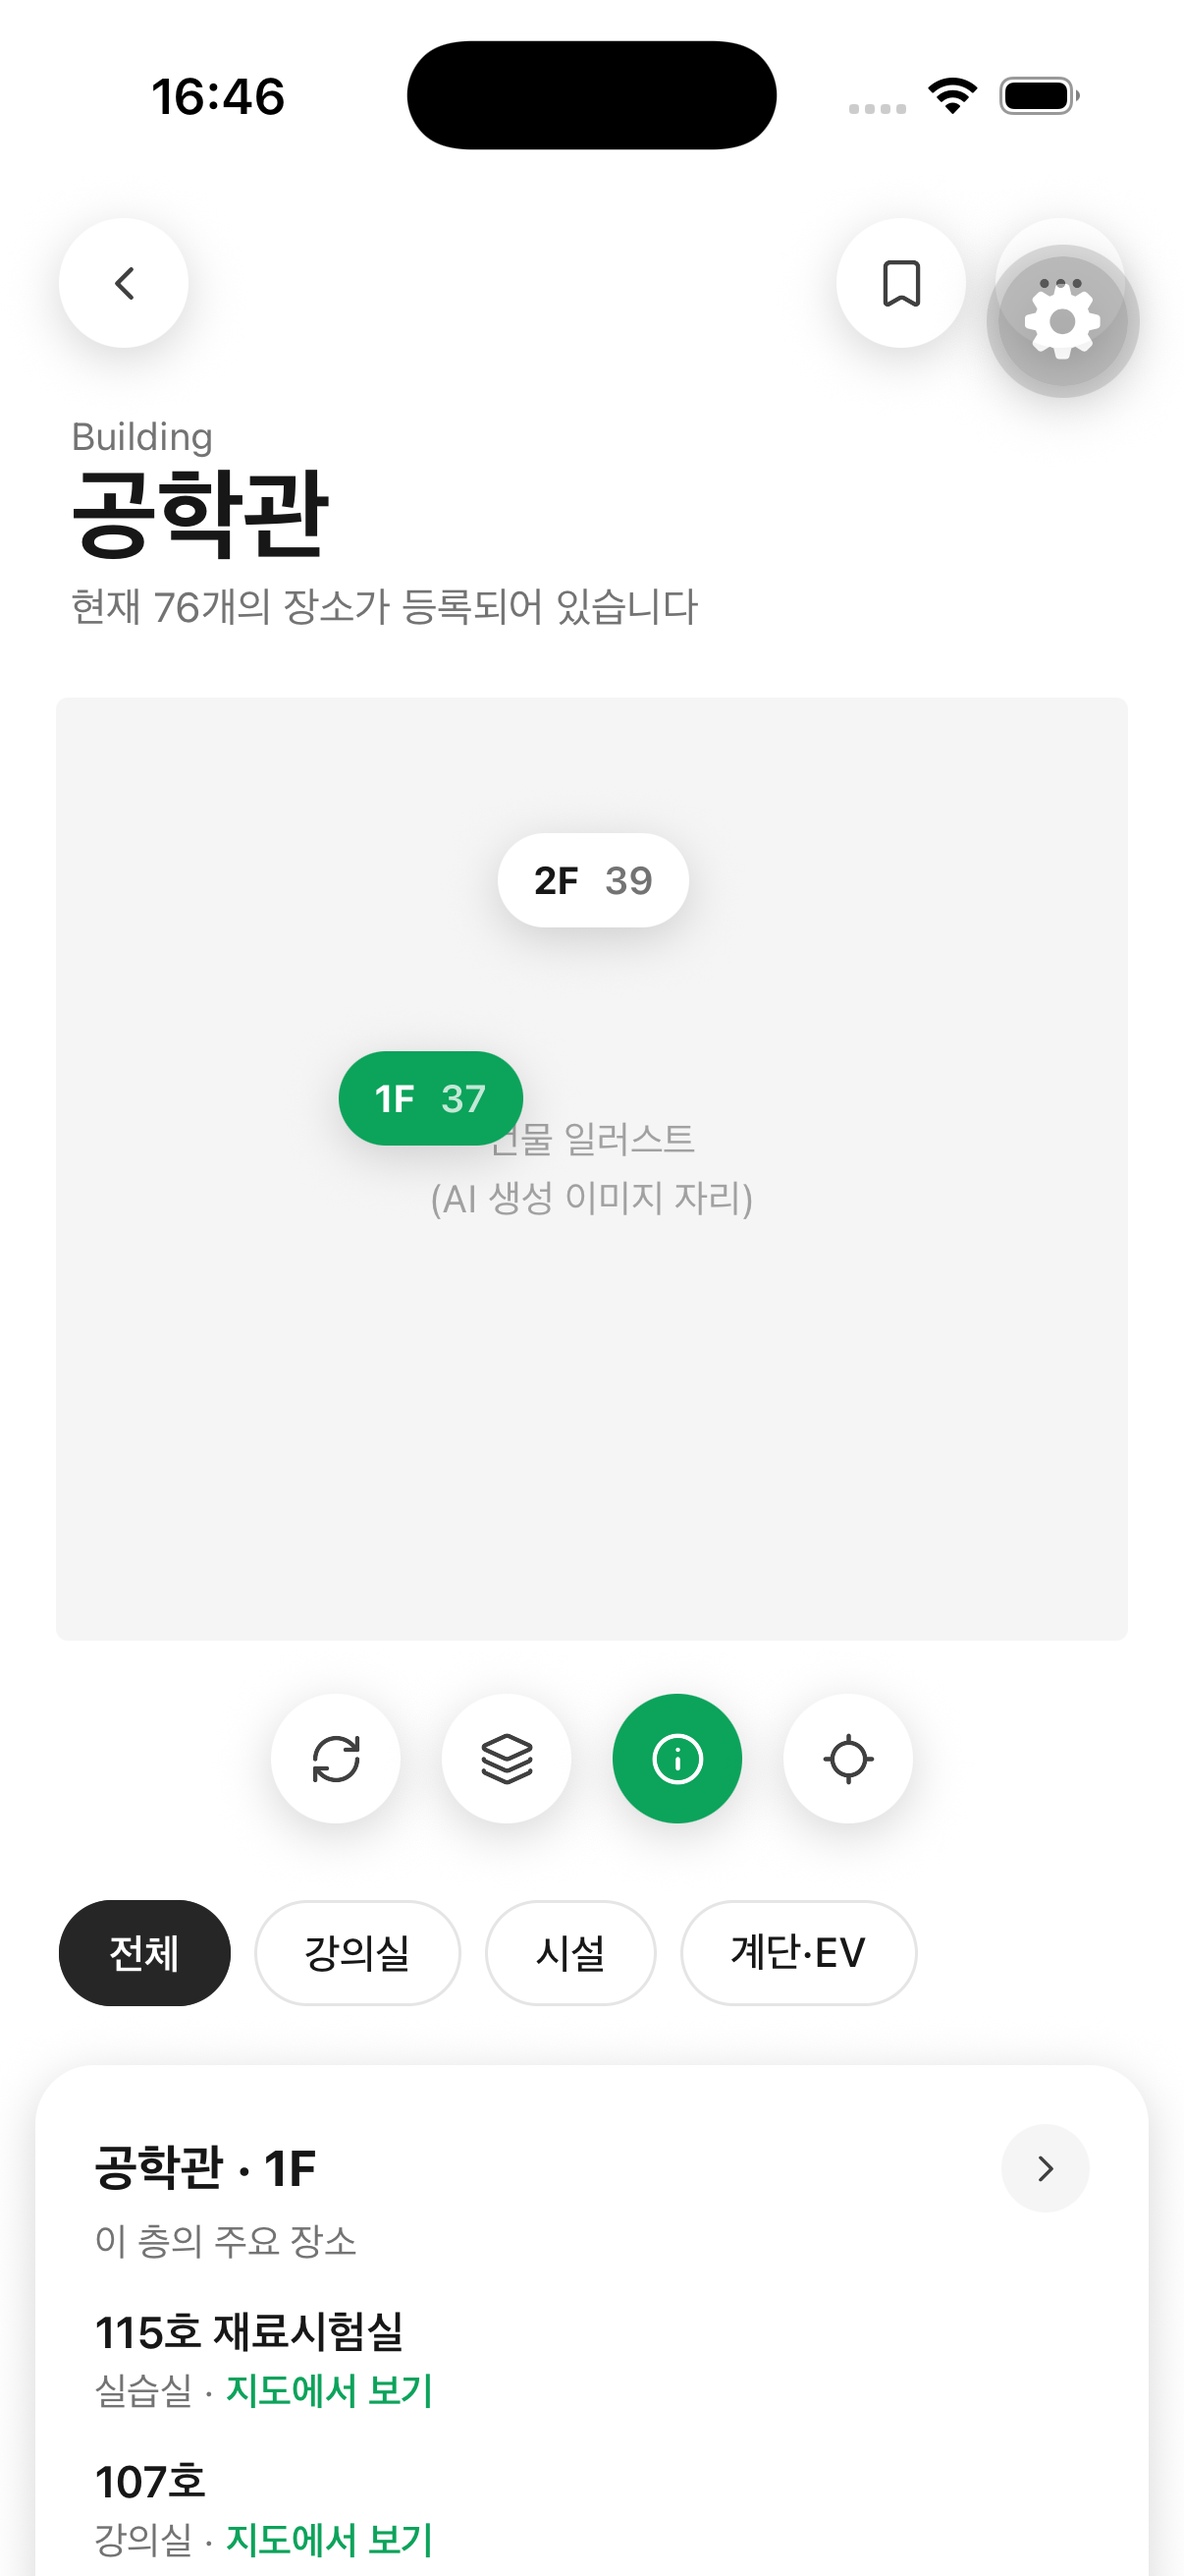
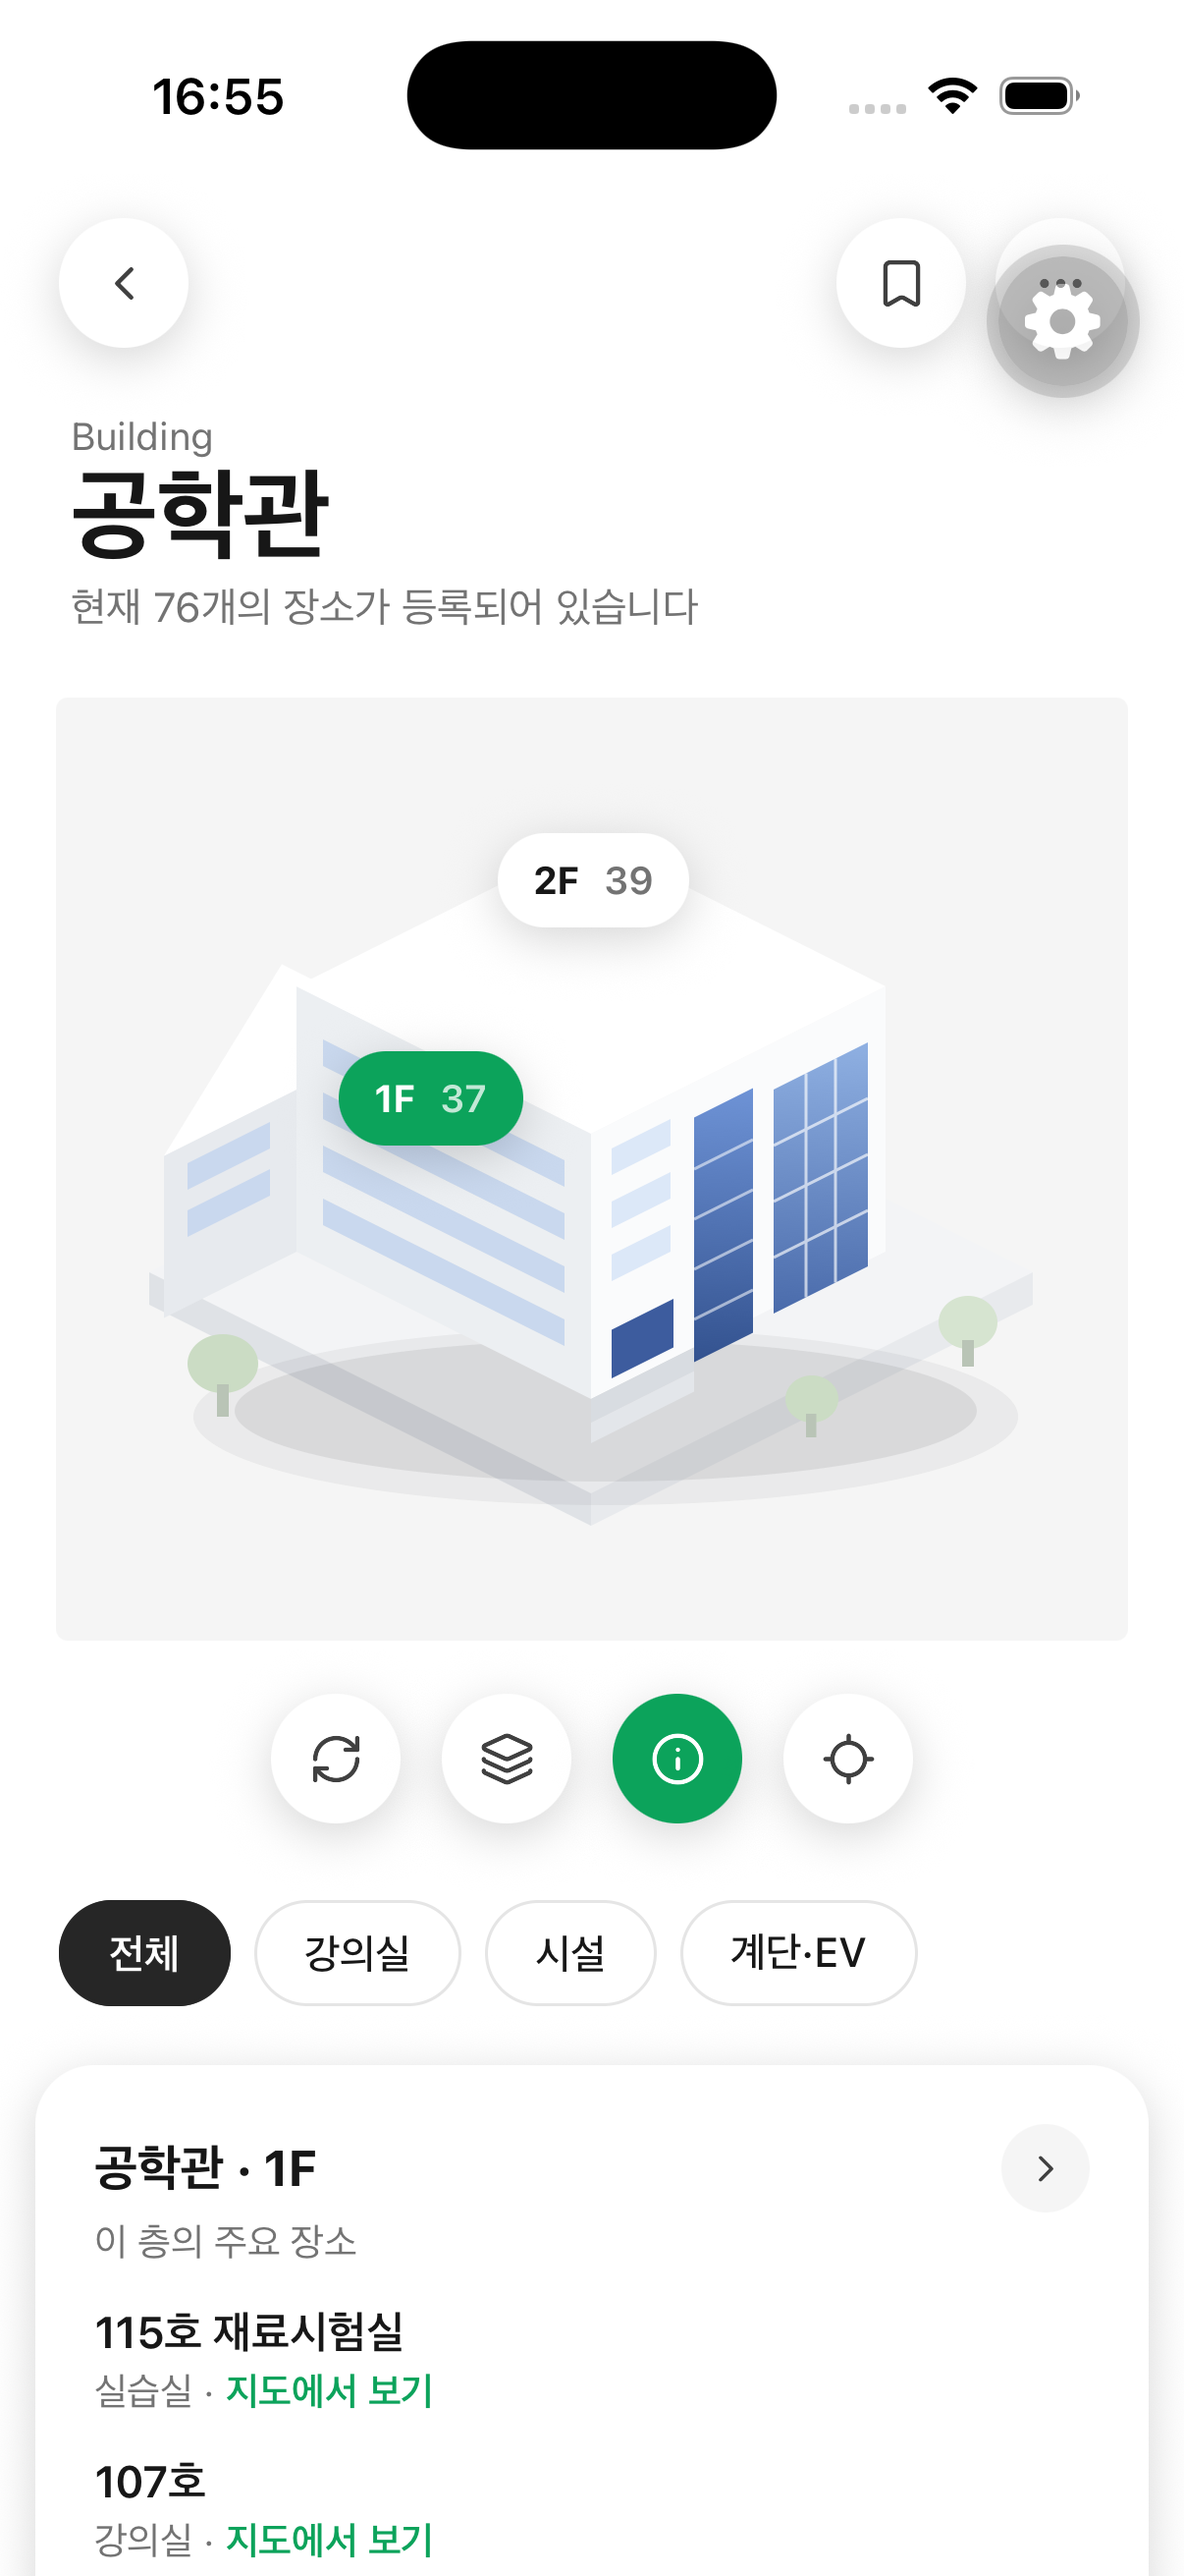
feat(building-art): 건물 일러스트 벡터 컴포넌트 (자리표시)
- IsoBuilding: 공학관 아이소메트릭 (미래관 실물 매싱 기반,
  중앙 통유리 스트립 + 우측 커튼월 + 입구 계단)
- ElevationBuilding: 정면 입면 (석재 패널 + 유리 타워 + 커튼월)
- react-native-svg로 네이티브·웹 동일 렌더, 건물 상세와 층 선택
  화면의 플레이스홀더 교체 (AI 생성 이미지 확정 시 Image로 대체)
- iOS 시뮬레이터 스크린샷 갱신

Changed region(s): [[0.1534, 0.4016, 0.859, 0.587], [0.1841, 0.0309, 0.2148, 0.0618]]

diff --git a/src/shared/components/building-art/IsoBuilding.tsx b/src/shared/components/building-art/IsoBuilding.tsx
@@ -1,0 +1,106 @@
+import Svg, { Defs, Ellipse, G, Line, LinearGradient, Polygon, Rect, Stop } from 'react-native-svg'
+
+// 공학관 아이소메트릭 일러스트 — 미래관 실물 매싱(중앙 통유리 스트립 + 우측 커튼월) 기반 자리표시 벡터.
+// AI 생성 이미지가 확정되면 이 컴포넌트를 Image로 교체한다.
+
+type IsoBuildingProps = {
+  width?: number
+  height?: number
+}
+
+export function IsoBuilding({ width = 355, height = 320 }: IsoBuildingProps) {
+  return (
+    <Svg width={width} height={height} viewBox="0 0 355 320">
+      <Defs>
+        <LinearGradient id="isoGlassV" x1="0%" y1="0%" x2="0%" y2="100%">
+          <Stop offset="0" stopColor="#6E93D6" />
+          <Stop offset="1" stopColor="#33528F" />
+        </LinearGradient>
+        <LinearGradient id="isoGlassGrid" x1="0%" y1="0%" x2="0%" y2="100%">
+          <Stop offset="0" stopColor="#8FB0E2" />
+          <Stop offset="1" stopColor="#4A6BAB" />
+        </LinearGradient>
+      </Defs>
+
+      {/* 플랫폼 */}
+      <Polygon points="177,120 327,195 177,270 27,195" fill="#F3F4F6" />
+      <Polygon points="27,195 177,270 177,281 27,206" fill="#DFE2E6" />
+      <Polygon points="327,195 177,270 177,281 327,206" fill="#E8EAED" />
+
+      {/* 건물 그림자 (블러 미지원 대비: 겹친 반투명 타원) */}
+      <Ellipse cx={182} cy={244} rx={140} ry={30} fill="#1B1D1F" opacity={0.05} />
+      <Ellipse cx={182} cy={242} rx={126} ry={24} fill="#1B1D1F" opacity={0.08} />
+
+      {/* 좌측 저층 윙 */}
+      <Polygon points="77,188 77,133 32,155.5 32,210.5" fill="#E7EAEE" />
+      <Polygon points="77,188 77,133 117,113 117,168" fill="#F6F8FA" />
+      <Polygon points="32,155.5 77,133 117,113 72,90.5" fill="#FFFFFF" />
+      <G fill="#C9D8EE">
+        <Polygon points="40,158 68,144 68,153 40,167" />
+        <Polygon points="40,174 68,160 68,169 40,183" />
+      </G>
+      <G fill="#DCE8F8">
+        <Polygon points="84,136 110,123 110,132 84,145" />
+        <Polygon points="84,152 110,139 110,148 84,161" />
+      </G>
+
+      {/* 본관 */}
+      <Polygon points="177,238 77,188 77,98 177,148" fill="#ECEFF2" />
+      <Polygon points="177,238 277,188 277,98 177,148" fill="#FAFBFC" />
+      <Polygon points="77,98 177,48 277,98 177,148" fill="#FFFFFF" />
+
+      {/* 좌측면 리본창 */}
+      <G fill="#C9D8EE">
+        <Polygon points="86,116 168,157 168,166 86,125" />
+        <Polygon points="86,134 168,175 168,184 86,143" />
+        <Polygon points="86,152 168,193 168,202 86,161" />
+        <Polygon points="86,170 168,211 168,220 86,179" />
+      </G>
+
+      {/* 중앙 통유리 스트립 */}
+      <Polygon points="212,142.5 232,132.5 232,215.5 212,225.5" fill="url(#isoGlassV)" />
+      <G stroke="#FFFFFF" strokeWidth={1} opacity={0.55}>
+        <Line x1={212} y1={160} x2={232} y2={150} />
+        <Line x1={212} y1={177} x2={232} y2={167} />
+        <Line x1={212} y1={194} x2={232} y2={184} />
+        <Line x1={212} y1={211} x2={232} y2={201} />
+      </G>
+
+      {/* 우측 커튼월 블록 */}
+      <Polygon points="239,133 271,117 271,193 239,209" fill="url(#isoGlassGrid)" />
+      <G stroke="#FFFFFF" strokeWidth={1} opacity={0.65}>
+        <Line x1={239} y1={152} x2={271} y2={136} />
+        <Line x1={239} y1={171} x2={271} y2={155} />
+        <Line x1={239} y1={190} x2={271} y2={174} />
+        <Line x1={250} y1={127.5} x2={250} y2={203.5} />
+        <Line x1={260} y1={122.5} x2={260} y2={198.5} />
+      </G>
+
+      {/* 정면 석재 패널 창 */}
+      <G fill="#DCE8F8">
+        <Polygon points="184,153 204,143 204,152 184,162" />
+        <Polygon points="184,171 204,161 204,170 184,180" />
+        <Polygon points="184,189 204,179 204,188 184,198" />
+      </G>
+
+      {/* 입구 계단과 캐노피 */}
+      <Polygon points="177,238 212,220.5 212,228.5 177,246" fill="#D8DCE1" />
+      <Polygon points="177,246 212,228.5 212,235.5 177,253" fill="#E3E6EA" />
+      <Polygon points="184,231 205,220.5 205,204 184,214.5" fill="#3D5C9E" />
+
+      {/* 나무 */}
+      <G>
+        <Ellipse cx={52} cy={226} rx={12} ry={10} fill="#CBDCC4" />
+        <Rect x={50} y={233} width={4} height={11} fill="#B9C4B6" />
+      </G>
+      <G>
+        <Ellipse cx={305} cy={212} rx={10} ry={9} fill="#D6E4D0" />
+        <Rect x={303} y={218} width={4} height={9} fill="#B9C4B6" />
+      </G>
+      <G>
+        <Ellipse cx={252} cy={238} rx={9} ry={8} fill="#CBDCC4" />
+        <Rect x={250} y={243} width={3.5} height={8} fill="#B9C4B6" />
+      </G>
+    </Svg>
+  )
+}

diff --git a/src/shared/components/building-art/ElevationBuilding.tsx b/src/shared/components/building-art/ElevationBuilding.tsx
@@ -1,0 +1,89 @@
+import Svg, { Defs, G, Line, LinearGradient, Rect, Stop } from 'react-native-svg'
+
+// 공학관 정면 입면 일러스트 — 실물 파사드(석재 패널 + 중앙 유리 타워 + 우측 커튼월) 기반 자리표시 벡터.
+// AI 생성 이미지가 확정되면 이 컴포넌트를 Image로 교체한다.
+
+type ElevationBuildingProps = {
+  width?: number
+  height?: number
+}
+
+export function ElevationBuilding({ width = 345, height = 356 }: ElevationBuildingProps) {
+  return (
+    <Svg width={width} height={height} viewBox="0 0 345 356">
+      <Defs>
+        <LinearGradient id="eleStripRN" x1="0%" y1="0%" x2="0%" y2="100%">
+          <Stop offset="0" stopColor="#5F87CF" />
+          <Stop offset="1" stopColor="#2E4C87" />
+        </LinearGradient>
+        <LinearGradient id="eleGridRN" x1="0%" y1="0%" x2="0%" y2="100%">
+          <Stop offset="0" stopColor="#9CBAE8" />
+          <Stop offset="1" stopColor="#5372B0" />
+        </LinearGradient>
+      </Defs>
+
+      {/* 좌측 저층 윙 */}
+      <Rect x={6} y={150} width={60} height={186} fill="#F0F2EF" stroke="#E3E6E2" />
+      <G fill="#C9D8EE">
+        <Rect x={14} y={164} width={44} height={14} rx={2} />
+        <Rect x={14} y={204} width={44} height={14} rx={2} />
+        <Rect x={14} y={244} width={44} height={14} rx={2} />
+        <Rect x={14} y={284} width={44} height={14} rx={2} />
+      </G>
+
+      {/* 본관 석재 파사드 */}
+      <Rect x={66} y={60} width={174} height={276} fill="#FAFAF8" stroke="#E6E6E1" />
+      <G stroke="#ECECE7" strokeWidth={1}>
+        <Line x1={66} y1={115} x2={240} y2={115} />
+        <Line x1={66} y1={170} x2={240} y2={170} />
+        <Line x1={66} y1={225} x2={240} y2={225} />
+        <Line x1={66} y1={280} x2={240} y2={280} />
+      </G>
+      <G fill="#A8C7F0">
+        <Rect x={80} y={78} width={30} height={20} rx={2} />
+        <Rect x={118} y={78} width={30} height={20} rx={2} />
+        <Rect x={80} y={133} width={30} height={20} rx={2} />
+        <Rect x={118} y={133} width={30} height={20} rx={2} />
+        <Rect x={80} y={188} width={30} height={20} rx={2} />
+        <Rect x={118} y={188} width={30} height={20} rx={2} />
+        <Rect x={80} y={243} width={30} height={20} rx={2} />
+        <Rect x={118} y={243} width={30} height={20} rx={2} />
+        <Rect x={200} y={78} width={30} height={20} rx={2} />
+        <Rect x={200} y={133} width={30} height={20} rx={2} />
+        <Rect x={200} y={188} width={30} height={20} rx={2} />
+        <Rect x={200} y={243} width={30} height={20} rx={2} />
+      </G>
+
+      {/* 중앙 통유리 타워 스트립 */}
+      <Rect x={152} y={30} width={42} height={306} fill="url(#eleStripRN)" />
+      <Rect x={150} y={24} width={46} height={8} rx={2} fill="#D9DCE0" />
+      <G stroke="#FFFFFF" strokeWidth={1.2} opacity={0.5}>
+        <Line x1={152} y1={88} x2={194} y2={88} />
+        <Line x1={152} y1={146} x2={194} y2={146} />
+        <Line x1={152} y1={204} x2={194} y2={204} />
+        <Line x1={152} y1={262} x2={194} y2={262} />
+        <Line x1={173} y1={30} x2={173} y2={336} />
+      </G>
+
+      {/* 우측 커튼월 블록 */}
+      <Rect x={240} y={84} width={99} height={252} fill="#F5F6F4" stroke="#E6E6E1" />
+      <Rect x={250} y={96} width={79} height={240} fill="url(#eleGridRN)" />
+      <G stroke="#FFFFFF" strokeWidth={1.2} opacity={0.6}>
+        <Line x1={250} y1={136} x2={329} y2={136} />
+        <Line x1={250} y1={176} x2={329} y2={176} />
+        <Line x1={250} y1={216} x2={329} y2={216} />
+        <Line x1={250} y1={256} x2={329} y2={256} />
+        <Line x1={250} y1={296} x2={329} y2={296} />
+        <Line x1={276} y1={96} x2={276} y2={336} />
+        <Line x1={303} y1={96} x2={303} y2={336} />
+      </G>
+
+      {/* 입구: 유리문과 계단 */}
+      <Rect x={158} y={288} width={30} height={48} fill="#24406F" />
+      <Rect x={171.5} y={288} width={3} height={48} fill="#FFFFFF" opacity={0.4} />
+      <Rect x={120} y={336} width={110} height={7} fill="#E2E5E9" />
+      <Rect x={112} y={343} width={126} height={7} fill="#EAEDF0" />
+      <Rect x={104} y={350} width={142} height={6} fill="#F1F3F5" />
+    </Svg>
+  )
+}

diff --git a/src/app/building/[id]/floors.tsx b/src/app/building/[id]/floors.tsx
@@ -3,6 +3,7 @@ import { Pressable, StyleSheet, Text, View } from "react-native";
 import { useRouter, useLocalSearchParams } from "expo-router";
 import { useSafeAreaInsets } from "react-native-safe-area-context";
 import { Icon } from "@/shared/components/Icon";
+import { ElevationBuilding } from "@/shared/components/building-art";
 import { Chip } from "@/shared/components/chip";
 import { Button } from "@/shared/components/input/Button";
 import { BottomActionBar } from "@/shared/components/input/BottomActionBar";
@@ -36,7 +37,7 @@ export default function BuildingFloorsScreen() {
         </View>
 
         <View style={styles.elevation}>
-          <Text style={styles.elevationPlaceholder}>건물 입면 일러스트{"\n"}(AI 생성 이미지 자리)</Text>
+          <ElevationBuilding width={321} height={331} />
           {building.floors.map((f, i) => {
             const selected = f.id === floorId;
             return (

diff --git a/src/app/building/[id]/index.tsx b/src/app/building/[id]/index.tsx
@@ -3,6 +3,7 @@ import { Pressable, ScrollView, StyleSheet, Text, View } from "react-native";
 import { useRouter, useLocalSearchParams } from "expo-router";
 import { useSafeAreaInsets } from "react-native-safe-area-context";
 import { Icon, type IconName } from "@/shared/components/Icon";
+import { IsoBuilding } from "@/shared/components/building-art";
 import { Chip } from "@/shared/components/chip";
 import { EmptyState } from "@/shared/components/empty-state";
 import { theme } from "@/shared/styles";
@@ -50,7 +51,7 @@ export default function BuildingDetailScreen() {
       </View>
 
       <View style={styles.illustCard}>
-        <Text style={styles.illustPlaceholder}>건물 일러스트{"\n"}(AI 생성 이미지 자리)</Text>
+        <IsoBuilding width={355} height={320} />
         {building.floors
           .filter((f) => f.placeCount > 0)
           .map((f, i) => {

diff --git a/src/shared/components/building-art/index.ts b/src/shared/components/building-art/index.ts
@@ -1,0 +1,2 @@
+export { IsoBuilding } from './IsoBuilding'
+export { ElevationBuilding } from './ElevationBuilding'
